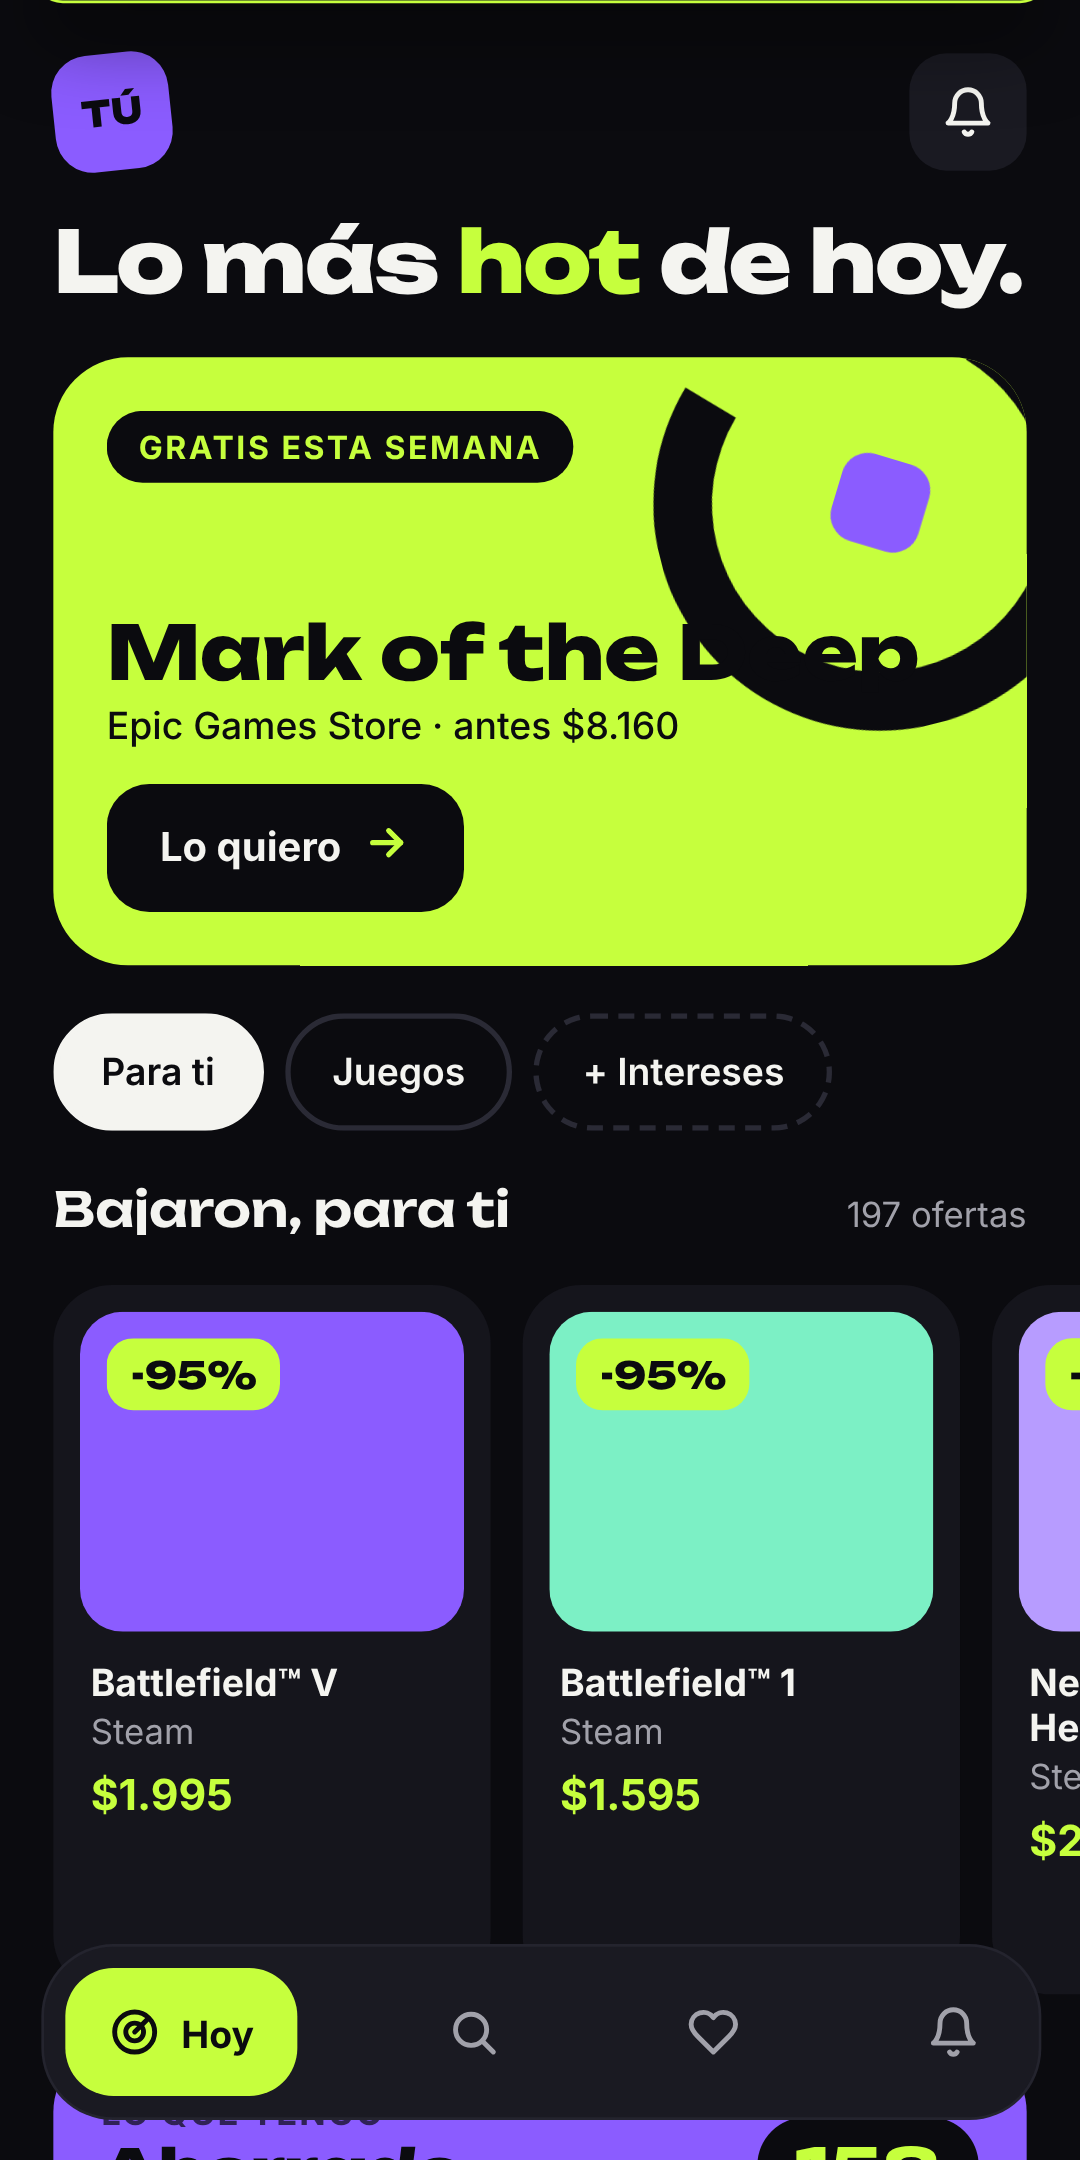
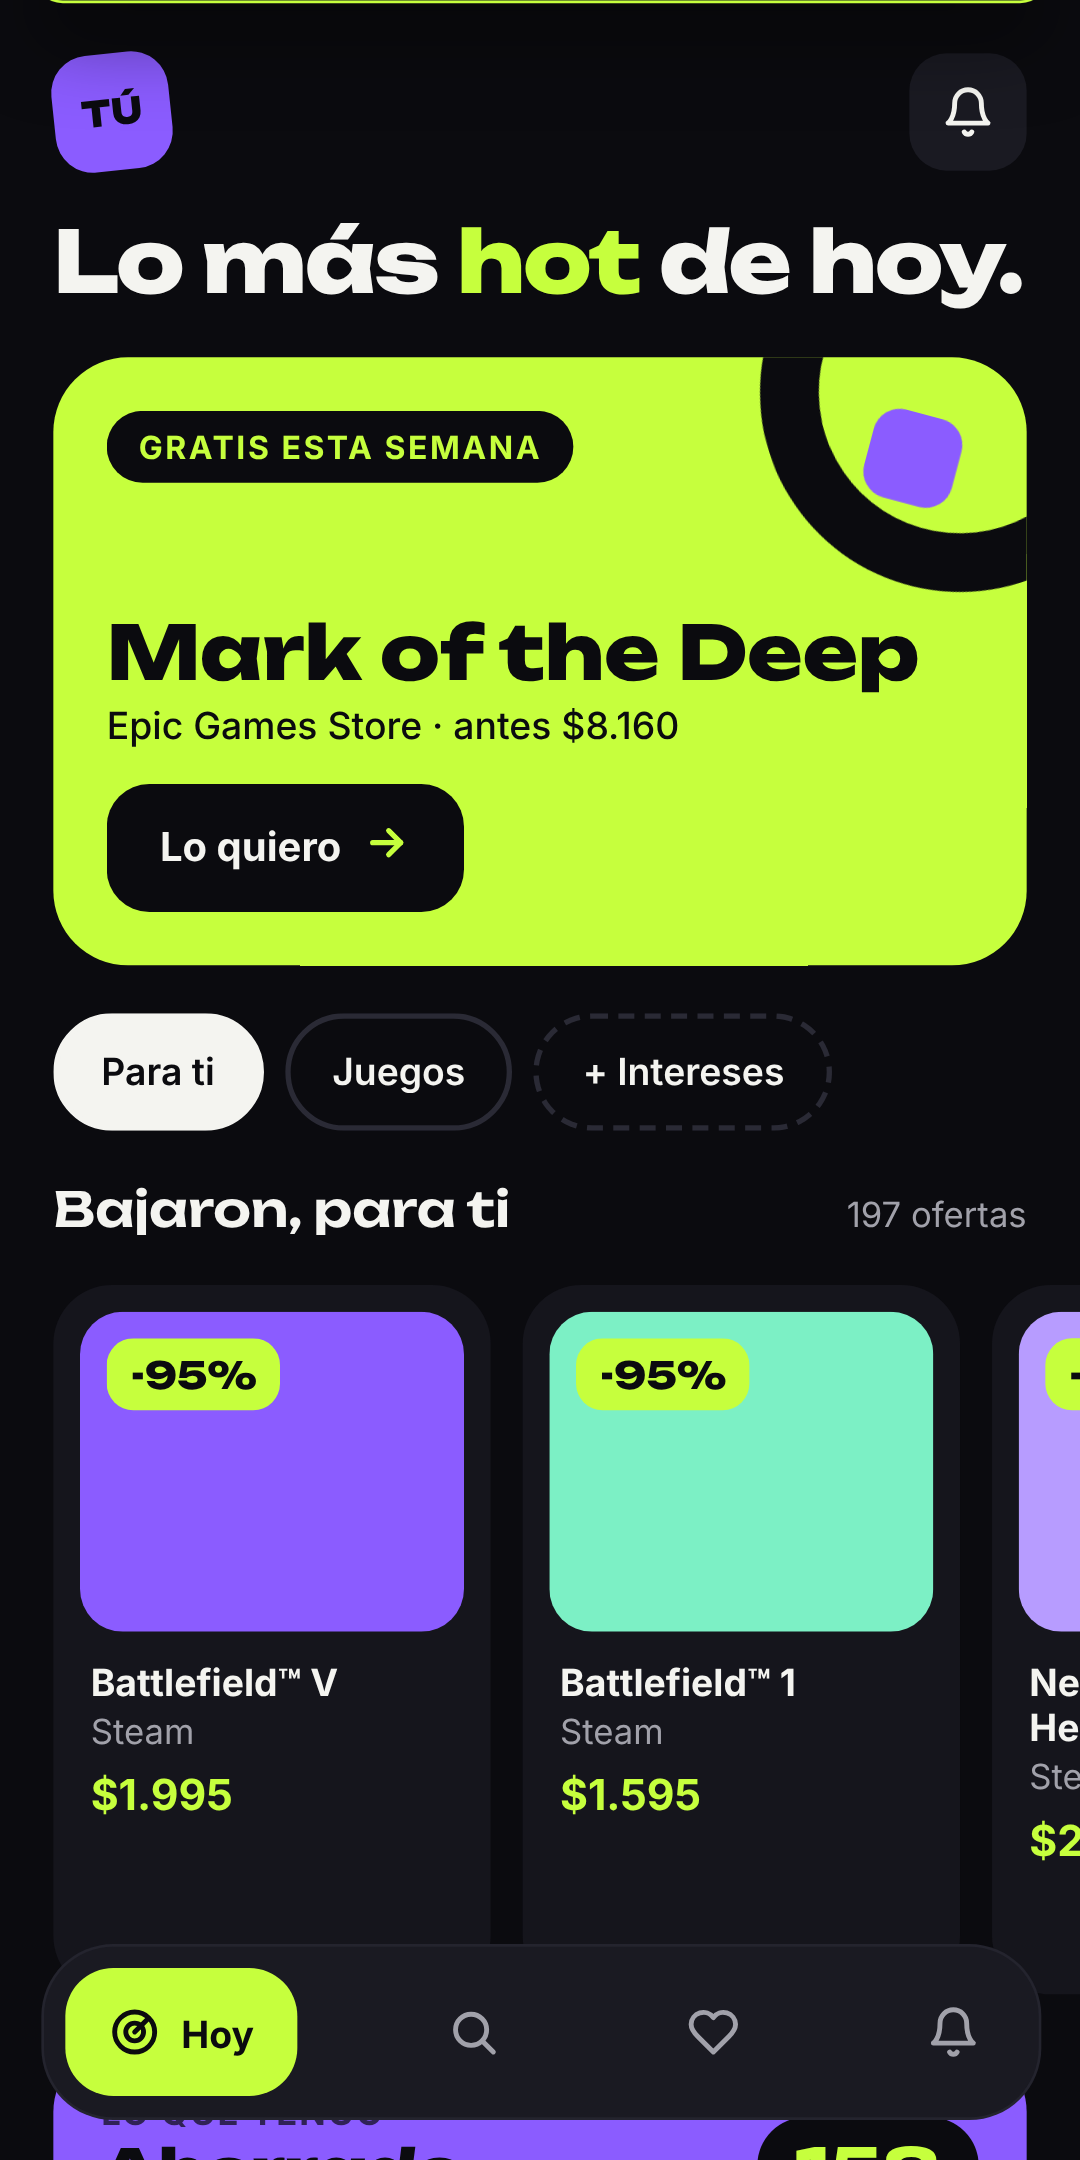
Tarjeta destacada: el adorno ya no tapa el nombre del juego; capturas de la ficha regeneradas
Claude-Session: https://claude.ai/code/session_01LTy7ufxRrfHHxdvcGeAkT9

Changed region(s): [[0.5806, 0.1551, 0.9778, 0.3412], [0.9167, 0.1551, 0.9472, 0.1861]]

diff --git a/app/www/index.html b/app/www/index.html
@@ -30,8 +30,8 @@ button{font-family:inherit;cursor:pointer;color:inherit}
 .dot{position:absolute;top:9px;right:10px;width:9px;height:9px;border-radius:50%;background:var(--lime);border:2px solid var(--card2)}
 .avatar{width:44px;height:44px;border-radius:14px;background:var(--violet);color:var(--bg);display:flex;align-items:center;justify-content:center;font-family:Unbounded;font-weight:800;transform:rotate(-6deg)}
 .hero{background:var(--lime);color:var(--bg);border-radius:28px;padding:20px;position:relative;overflow:hidden;border:0;text-align:left;width:100%;display:flex;flex-direction:column;gap:14px}
-.hero .ring{position:absolute;right:-30px;top:-30px;width:170px;height:170px;border-radius:50%;border:22px solid var(--bg)}
-.hero .sq{position:absolute;right:38px;top:38px;width:34px;height:34px;border-radius:10px;background:var(--violet);transform:rotate(18deg)}
+.hero .ring{position:absolute;right:-50px;top:-62px;width:150px;height:150px;border-radius:50%;border:22px solid var(--bg)}
+.hero .sq{position:absolute;right:26px;top:22px;width:34px;height:34px;border-radius:10px;background:var(--violet);transform:rotate(18deg)}
 .pill{align-self:flex-start;background:var(--bg);color:var(--lime);font-size:12px;font-weight:700;letter-spacing:.08em;padding:6px 12px;border-radius:999px;position:relative}
 .cta{align-self:flex-start;display:flex;align-items:center;gap:8px;background:var(--bg);color:var(--ink);font-weight:700;font-size:15px;padding:13px 20px;border-radius:16px;position:relative}
 .chips{display:flex;gap:8px;overflow-x:auto;scrollbar-width:none}
@@ -169,6 +169,7 @@ body.split-on .toast{bottom:calc(42vh + 12px)}
 .onb-sizes{display:grid;grid-template-columns:repeat(4,minmax(0,1fr));gap:8px}
 .onb-sizes .chip{padding:0}
 .buy[disabled]{opacity:.4}
+.hero > :not(.ring):not(.sq){position:relative;z-index:1}
 /* ---------- Publicidad ---------- */
 .ad{background:var(--card);border:1.5px dashed #3A3A48;border-radius:20px;padding:12px 14px;display:flex;flex-direction:column;gap:10px}
 .ad-top{display:flex;justify-content:space-between;align-items:center}
